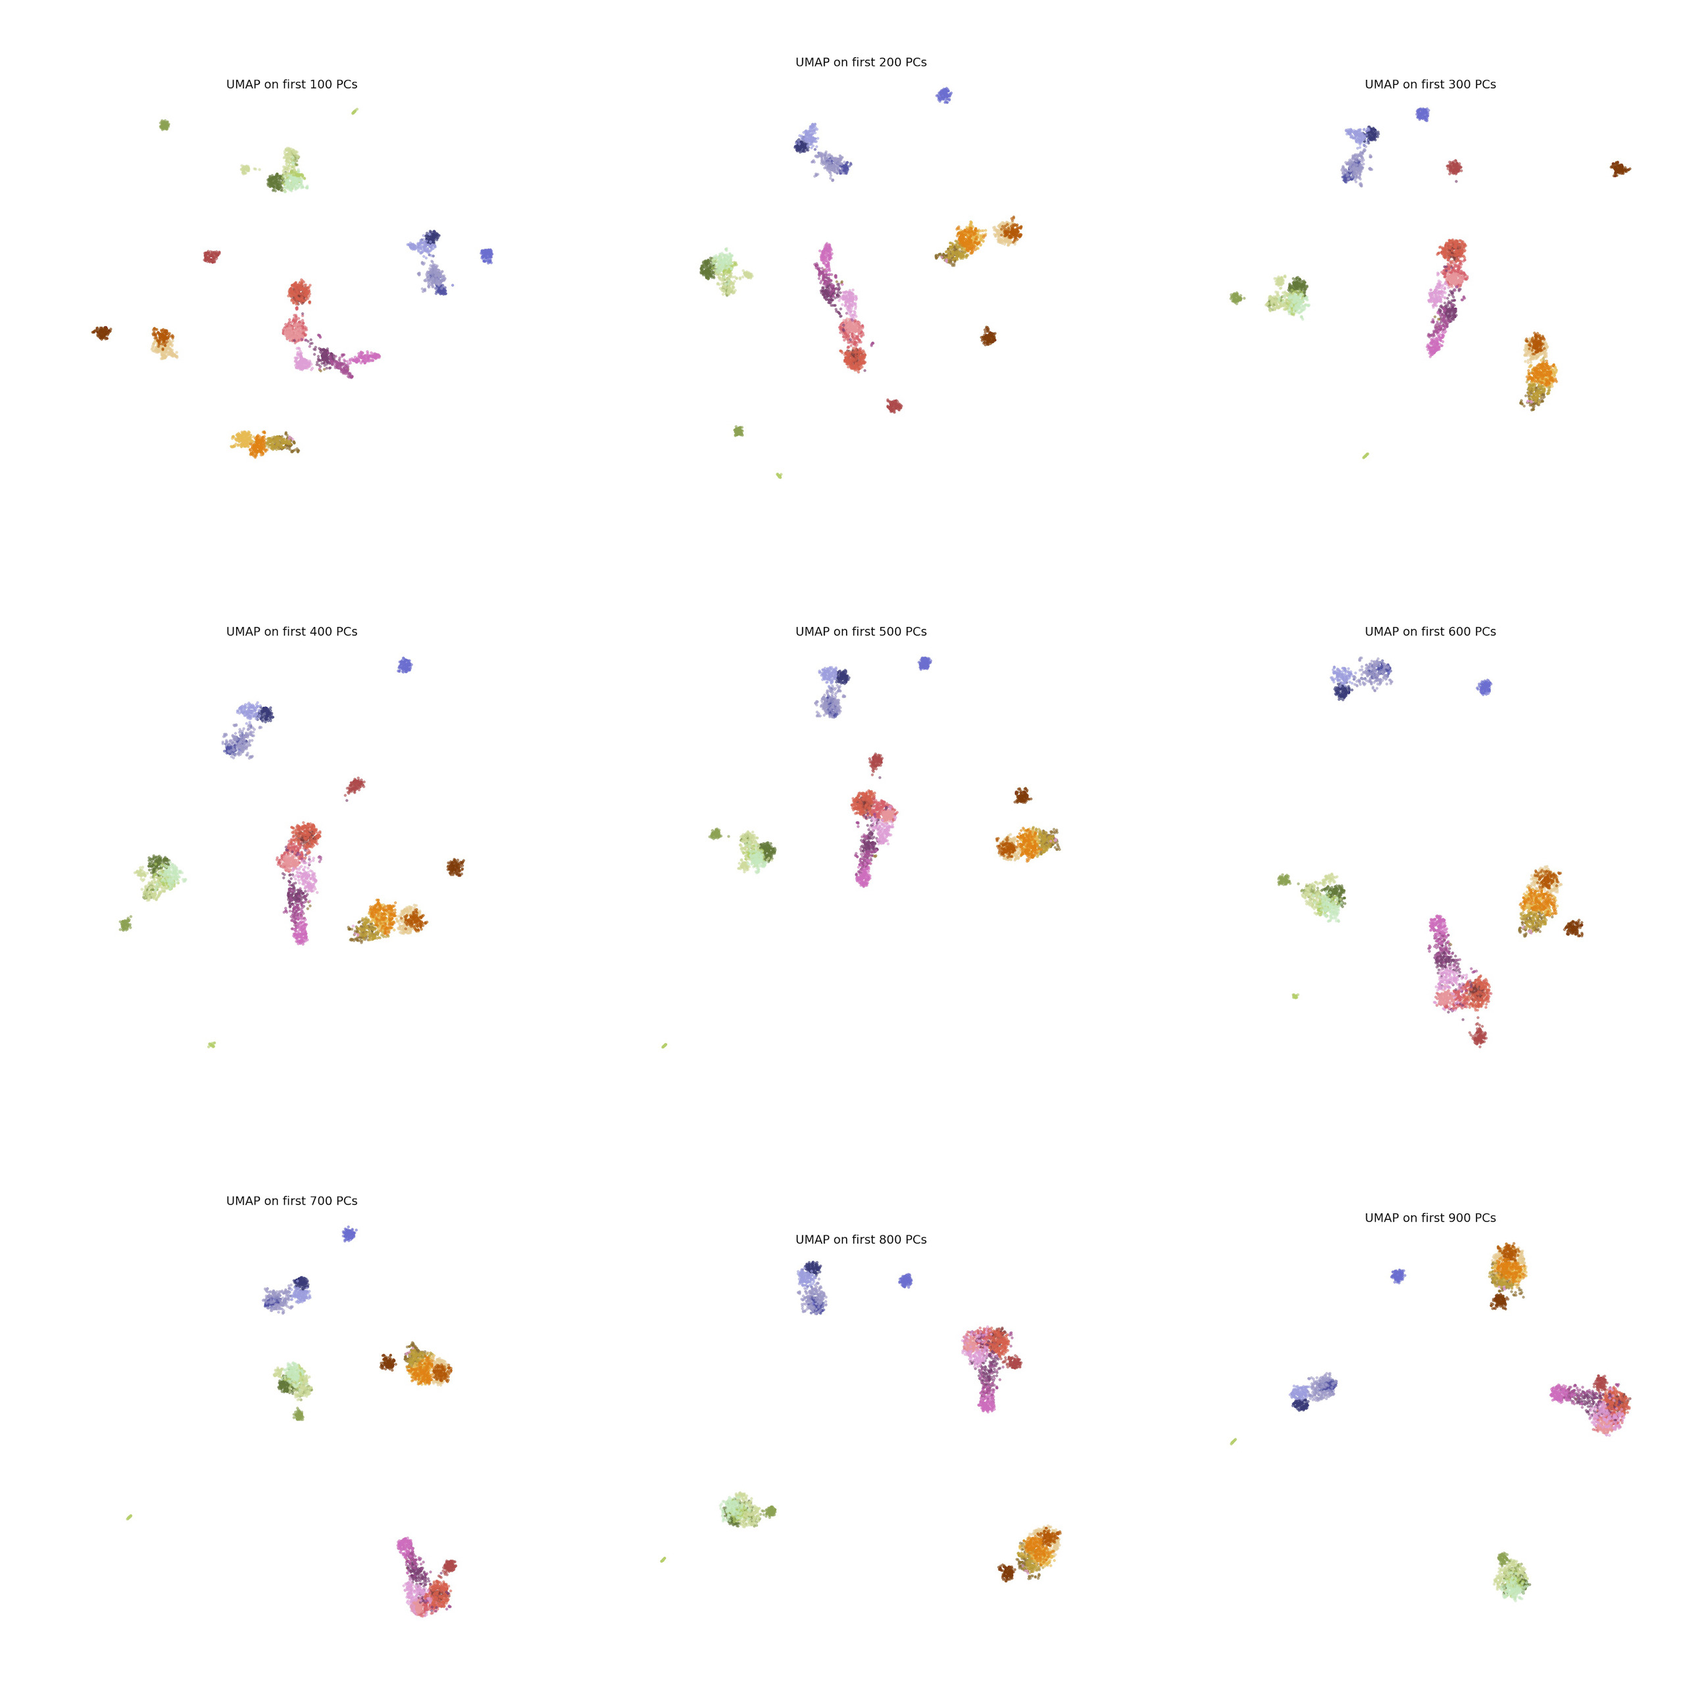
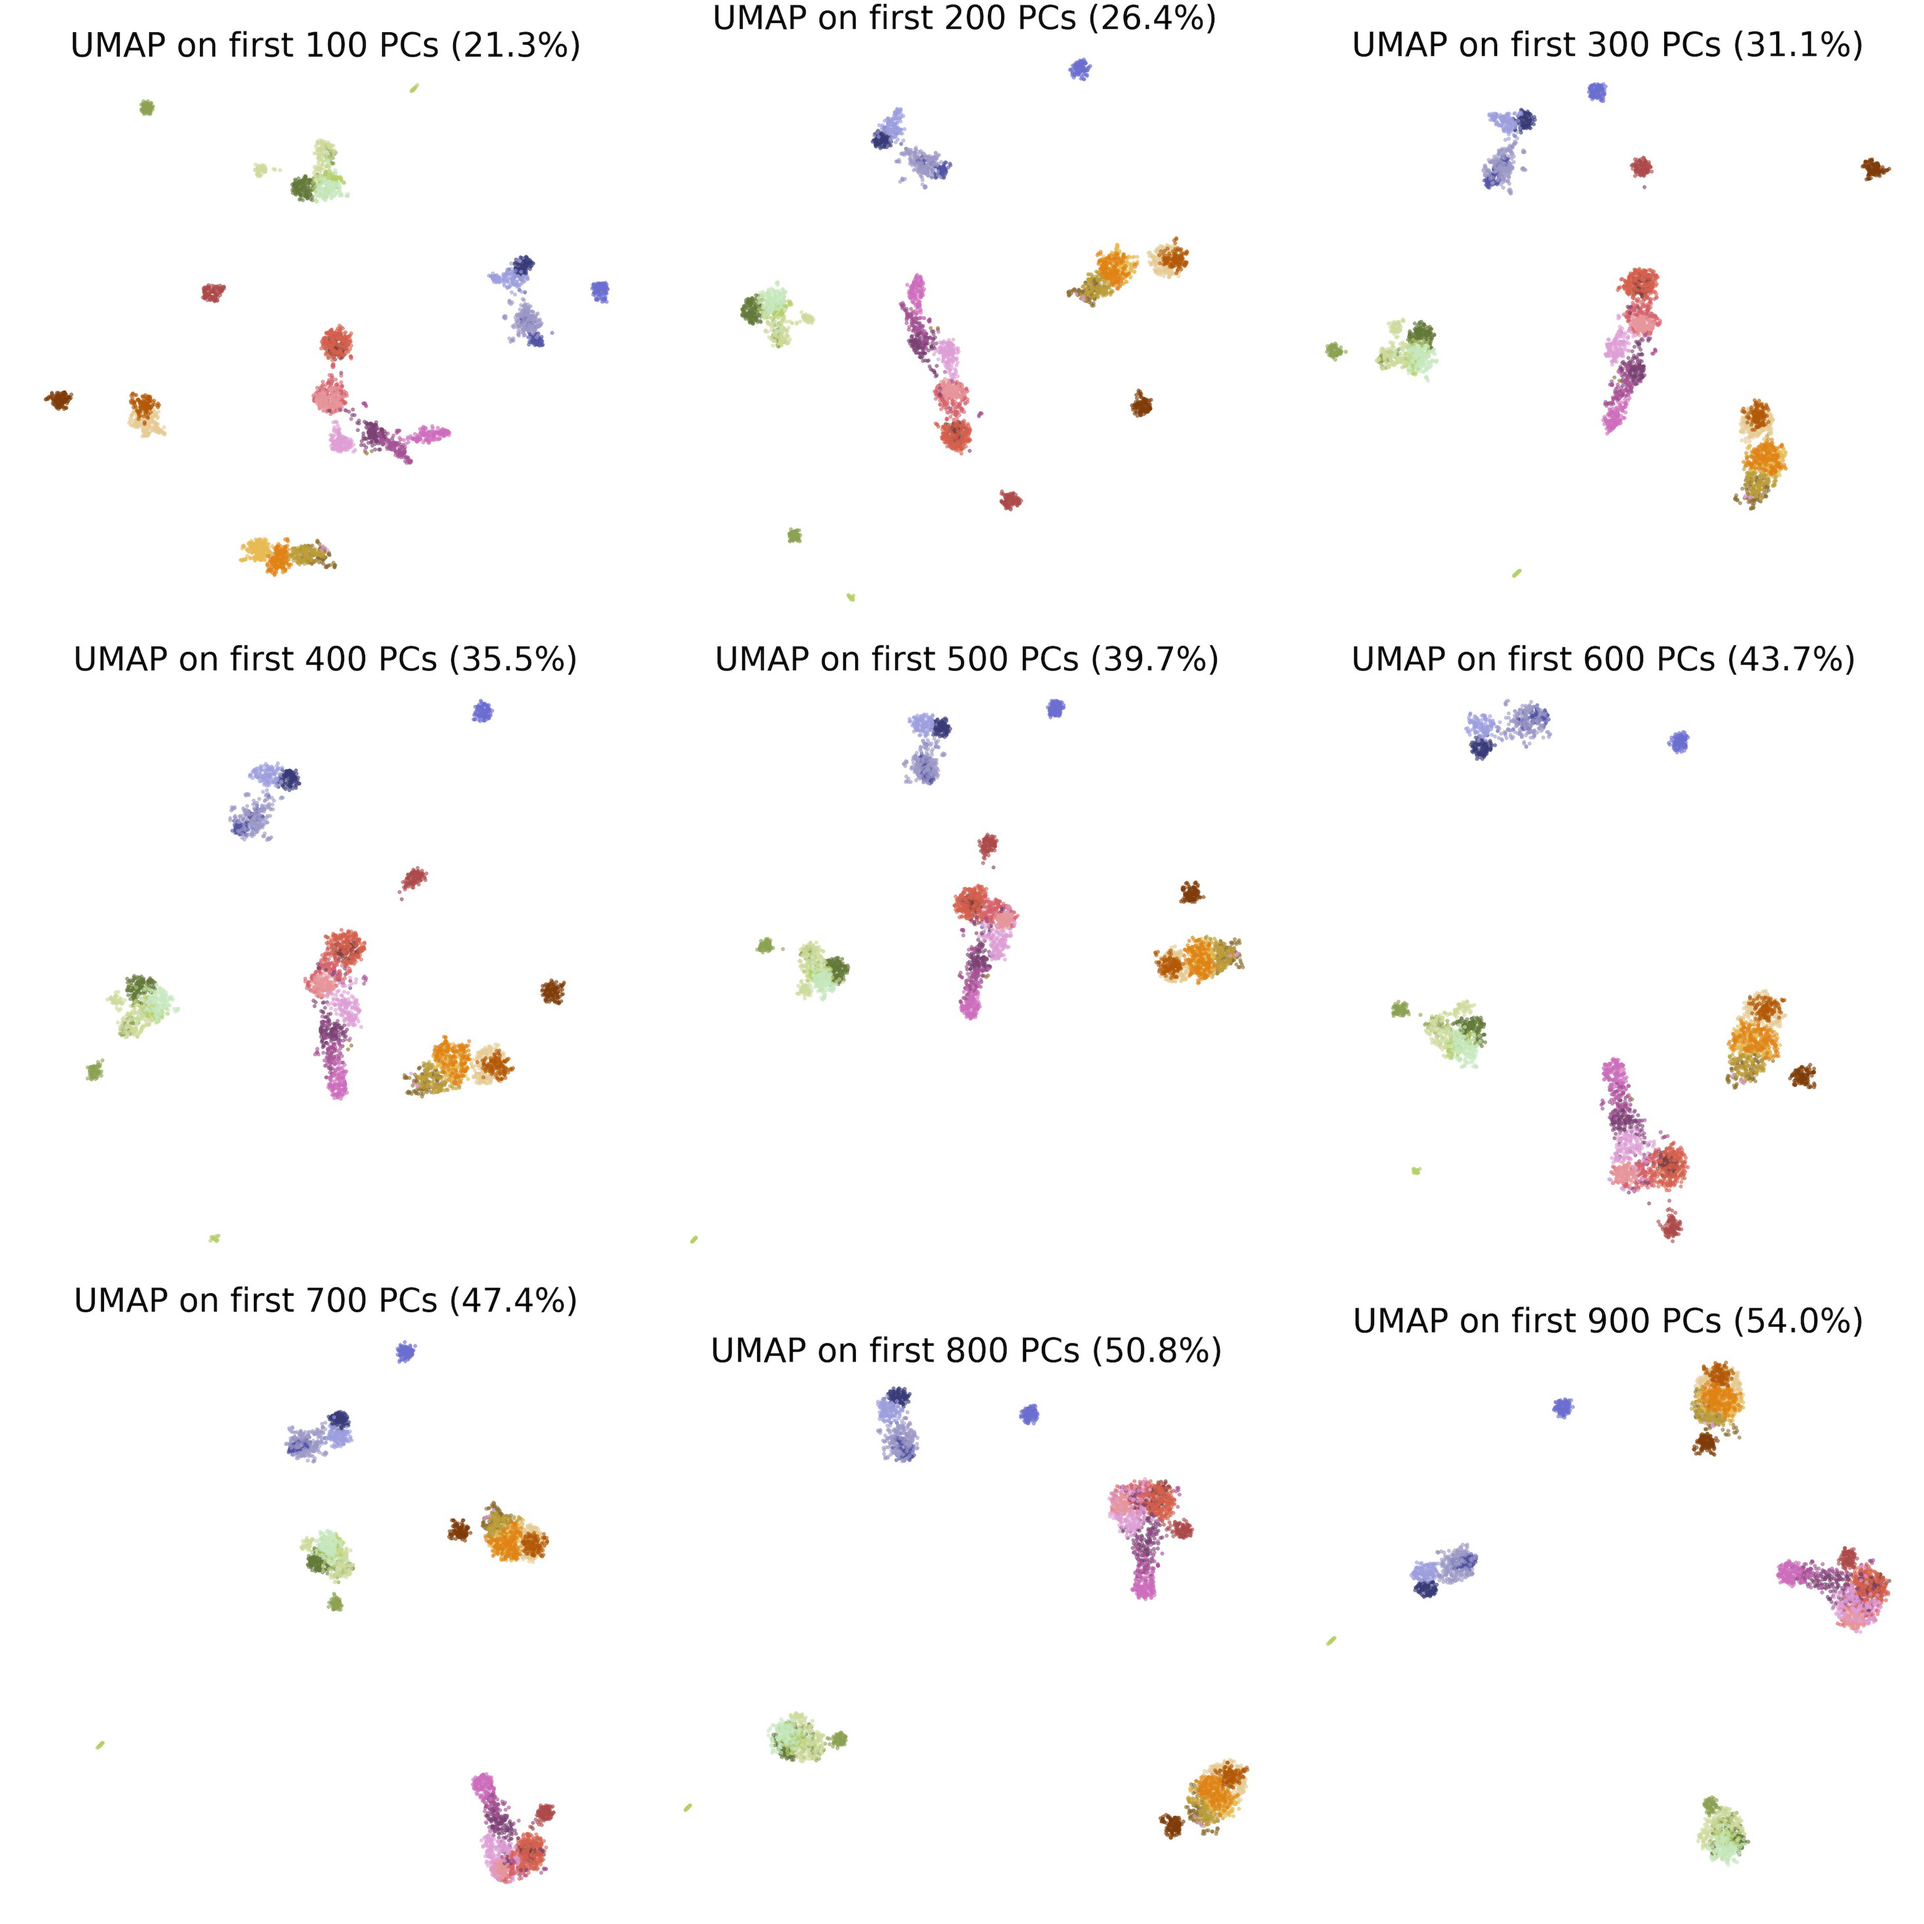
Add some stuff on PCs and variation

diff --git a/ms/main.tex b/ms/main.tex
@@ -318,7 +318,7 @@ We thank all participants in the HRS, UKBB, and 1KGP for providing their genetic
     \begin{subfigure}{0.95\textwidth}
     \includegraphics[width=0.95\textwidth]{images/montage_1KGP_umap_convergence_resize.jpeg}
     \end{subfigure}
-    \caption{UMAP applied to the first few hundred principal components of the 1KGP data. As more components are added, the figure begins to resemble that of UMAP carried out on the full genotype dataset.}
+    \caption{UMAP applied to the first few hundred principal components of the 1KGP data with the amount of variance explained in parentheses. As more components are added, the figure begins to resemble that of UMAP carried out on the full genotype dataset.}
     \label{fig:supp_montage_1kgp_converge}
 \end{figure*}
 
@@ -327,7 +327,7 @@ We thank all participants in the HRS, UKBB, and 1KGP for providing their genetic
     \begin{subfigure}{0.95\textwidth}
     \includegraphics[width=0.95\textwidth]{images/1KGP_UMAP_PCS100_PCE3450_NC2_NN15_MD05_201944185843.jpeg}
     \end{subfigure}
-    \caption{UMAP applied the last 3350 principal components of the 1KGP.}
+    \caption{UMAP applied the last 3350 principal components of the 1KGP, which explain 78.7\% of the variation.}
     \label{fig:supp_1kgp_3350}
 \end{figure*}
 
@@ -827,4 +827,118 @@ We thank all participants in the HRS, UKBB, and 1KGP for providing their genetic
     \label{fig:supp_hrs_hisp_admix}
 \end{figure*}
 
+\clearpage
+\begin{table}[htb!]
+\centering
+ \begin{tabular}{||c c||} 
+ \hline
+ Number of PCs & Variance explained  \\ [0.5ex] 
+ \hline\hline
+ 2 & 13.6\% \\
+\hline
+3 & 14.7\% \\
+\hline
+4 & 15.5\% \\
+\hline
+5 & 15.7\% \\
+\hline
+6 & 15.8\% \\
+\hline
+7 & 15.9\% \\
+\hline
+8 & 16.0\% \\
+\hline
+9 & 16.1\% \\
+\hline
+10 & 16.2\% \\
+\hline
+11 & 16.2\% \\
+\hline
+12 & 16.3\% \\
+\hline
+13 & 16.4\% \\
+\hline
+14 & 16.5\% \\
+\hline
+15 & 16.5\% \\
+\hline
+30 & 17.5\% \\
+\hline
+50 & 18.6\% \\
+\hline
+100 & 21.3\% \\
+\hline
+200 & 26.4\% \\
+\hline
+300 & 31.1\% \\
+\hline
+400 & 35.5\% \\
+\hline
+500 & 39.7\% \\
+\hline
+600 & 43.7\% \\
+\hline
+700 & 47.4\% \\
+\hline
+800 & 50.8\% \\
+\hline
+900 & 54.0\% \\
+\hline
+1000 & 57.0\% \\
+\hline
+1100 & 60.0\% \\
+\hline
+1200 & 62.8\% \\
+\hline
+1300 & 65.4\% \\
+\hline
+1400 & 68.0\% \\
+\hline
+1500 & 70.5\% \\
+\hline
+1600 & 73.0\% \\
+\hline
+1700 & 75.3\% \\
+\hline
+1800 & 77.5\% \\
+\hline
+1900 & 79.7\% \\
+\hline
+2000 & 81.8\% \\
+\hline
+2100 & 83.8\% \\
+\hline
+2200 & 85.8\% \\
+\hline
+2300 & 87.6\% \\
+\hline
+2400 & 89.4\% \\
+\hline
+2500 & 91.1\% \\
+\hline
+2600 & 92.7\% \\
+\hline
+2700 & 94.2\% \\
+\hline
+2800 & 95.3\% \\
+\hline
+2900 & 96.3\% \\
+\hline
+3000 & 97.1\% \\
+\hline
+3100 & 97.8\% \\
+\hline
+3200 & 98.5\% \\
+\hline
+3300 & 99.2\% \\
+\hline
+3400 & 99.7\% \\[1ex] 
+ \hline
+ \end{tabular}
+ \caption{Variance explained in the 1KGP data by the number of principal components used.}
+ \label{table:1KGP_var_exp}
+\end{table}
+
+
 \end{document}
+
